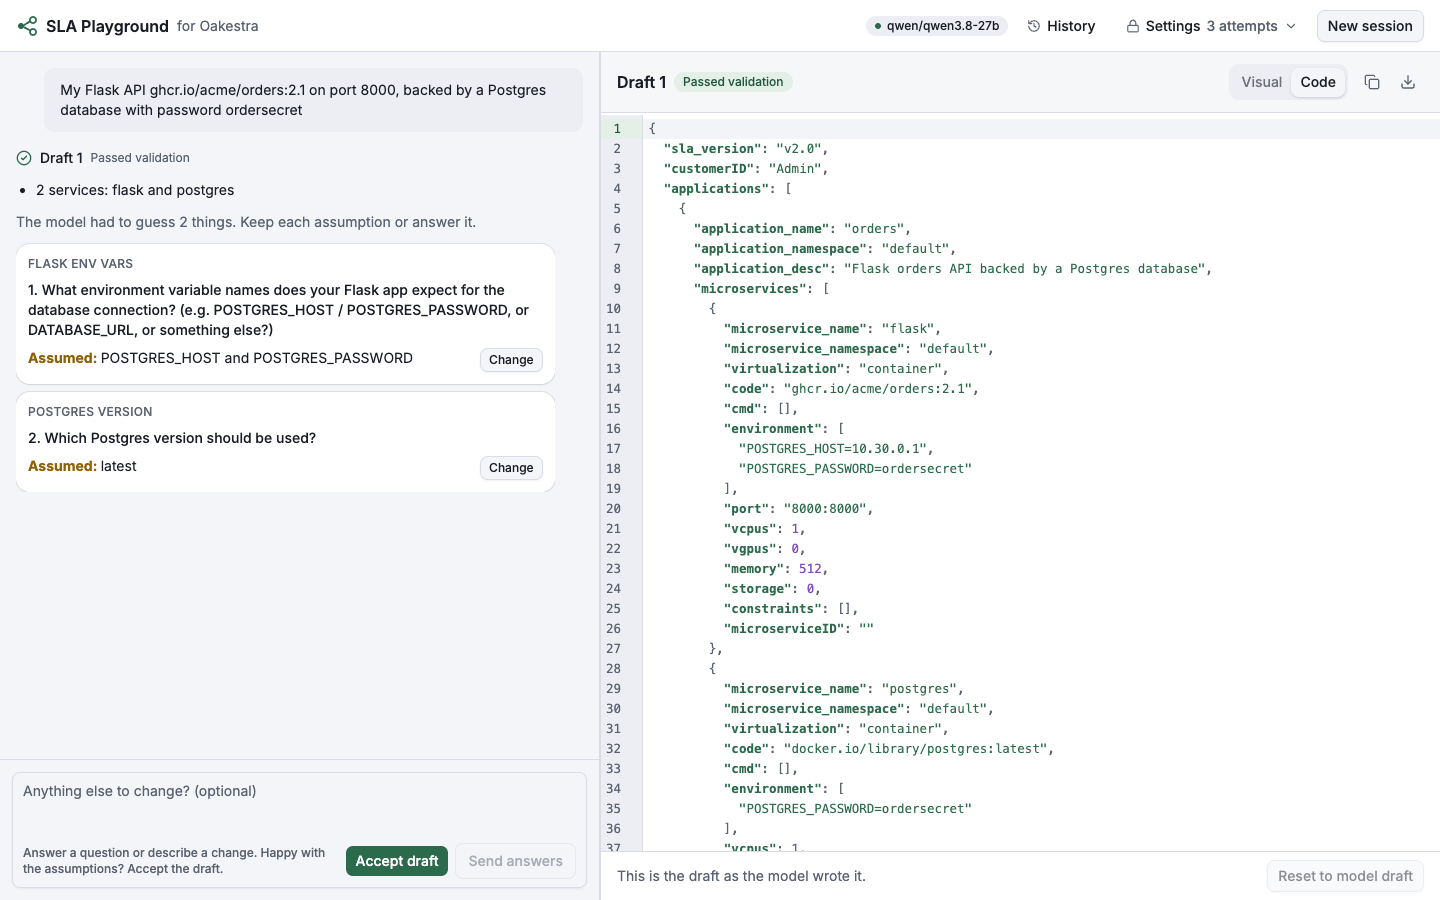
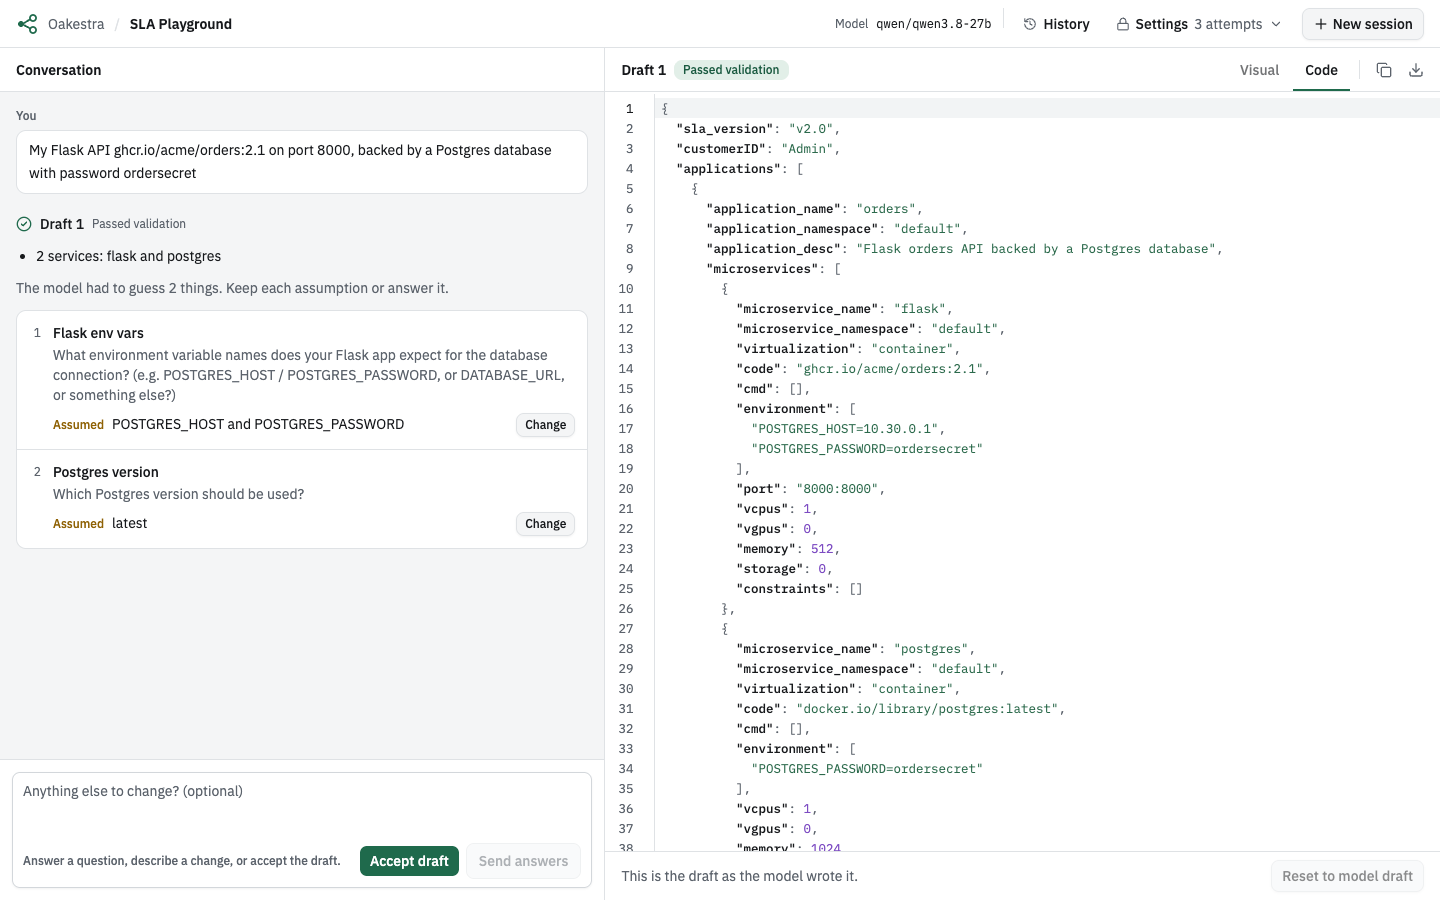
docs: describe the new playground features and refresh screenshots

diff --git a/README.md b/README.md
@@ -245,6 +245,11 @@ at 10. Error responses:
   `compose` isn't a usable compose file or `sla` isn't usable JSON with at least one application
 - `502` if the LLM server failed
 
+Each question is `{"topic", "question", "assumption", "field"}`. `assumption` is what the
+draft assumes, or `null`. `field` optionally names what the question is about, as
+`<microservice_name>.<key>` with an SLA key (e.g. `redis.memory`) or just `<microservice_name>`
+for a whole service. It's a hint from the model, so it can be `null` or not match the draft.
+
 `/generate` is single-shot: it doesn't expose the interactive session, so open questions come
 back once with no follow-up turn. Use the [playground](#playground) endpoints for a
 conversation.
@@ -265,16 +270,23 @@ mode. The quickest way to run it is `docker compose up --build` and then
 
 - **Conversation (left pane)** - describe your app, pick one of the examples, or upload or
   drop a compose file or an existing SLA with an optional note. Then keep changing the draft
-  through the chat. Each round shows whether the draft passed validation, what changed, and
-  the model's open questions. Keep each assumption or answer it, then update or accept the
-  draft. If no valid SLA comes out of a round, you can load the last attempt into the code
-  view and fix it by hand.
+  through the chat. While the model works, each attempt shows up as soon as it's validated,
+  with the first problem if it was rejected. Each round shows whether the draft passed
+  validation, what changed, and the model's open questions. Keep each assumption or answer it,
+  then update or accept the draft. Hovering or focusing a question highlights the field it's
+  about in the visual view, and **Show** scrolls to it. If no valid SLA comes out of a round,
+  you can load the last attempt into the code view and fix it by hand.
 - **Visual view (right pane)** - a map of the services, what's reachable from outside and
   which service references another's service IP, followed by a section per service with
-  changed fields and validation problems marked.
+  changed fields and validation problems marked. Values that look like secrets (passwords,
+  tokens, keys) are hidden until you reveal them, and values can be copied from each row.
 - **Code view (right pane)** - the editable SLA JSON, re-validated as you type. Clicking a
-  problem jumps to its line. If the model sends a new draft while you have unsaved edits, you
-  choose which one to keep.
+  problem jumps to its line. **Show changes** diffs it against the previous draft, or against
+  the model's latest draft once you've edited it by hand. If the model sends a new draft while
+  you have unsaved edits, you choose which one to keep.
+- **Earlier drafts** - pick one from the draft menu in the right pane's header, or click its
+  heading in the conversation, to see it read-only in both views. **Restore this draft** makes
+  it your working copy. The model keeps refining from its latest draft either way.
 - **Settings (top bar)** - attempts per round, the customer ID and whether to check that
   images exist. They lock once a session starts; **New session** unlocks them. The model and
   output method are server settings, see [HTTP API](#http-api).
@@ -283,8 +295,8 @@ mode. The quickest way to run it is `docker compose up --build` and then
   because server sessions expire after an hour. Entries can be copied, downloaded or deleted.
   Nothing leaves the browser, but any secrets in the SLAs are stored there until you delete them.
 
-The settings and the current conversation also survive a page reload. The UI follows the
-system's light or dark mode.
+The settings, the current conversation and the width of the two panes also survive a page
+reload. The UI follows the system's light or dark mode.
 
 ![The code view showing the editable SLA JSON for the same draft](docs/images/playground-code.png)
 
@@ -296,10 +308,15 @@ system's light or dark mode.
 
 | Endpoint | Description |
 |---|---|
-| `POST /playground/sessions` | Start a session. Same fields as `POST /generate`, plus `check_images`. Returns `{session_id, sla, questions, attempts}`. |
-| `POST /playground/sessions/{id}/answer` | Continue a session with `{text}`. Returns the same shape. `409` while a turn is still running. |
+| `POST /playground/sessions` | Start a session. Same fields as `POST /generate`, plus `check_images` and `turn_id`. Returns `{session_id, sla, questions, attempts}`. |
+| `POST /playground/sessions/{id}/answer` | Continue a session with `{text, turn_id}`. Returns the same shape. `409` while a turn is still running. |
+| `GET /playground/turns/{turn_id}` | Progress of a running turn: `{attempts}` so far. `404` before the turn's request arrives and once it has finished. |
 | `DELETE /playground/sessions/{id}` | Drop a session. |
 | `GET /playground/info` | Returns `{model}`, shown in the UI header. |
+
+`turn_id` is optional. It's a random id the client picks, 8 to 64 letters, digits, `-` or `_`,
+and lets the UI poll the attempts of a turn while its request is still open. Anyone who knows
+it can read the turn's errors, so don't reuse a guessable one.
 
 Sessions live only in the server process's memory. They don't survive a restart and aren't
 shared across worker processes. At most 32 are kept, each for up to an hour of inactivity,
